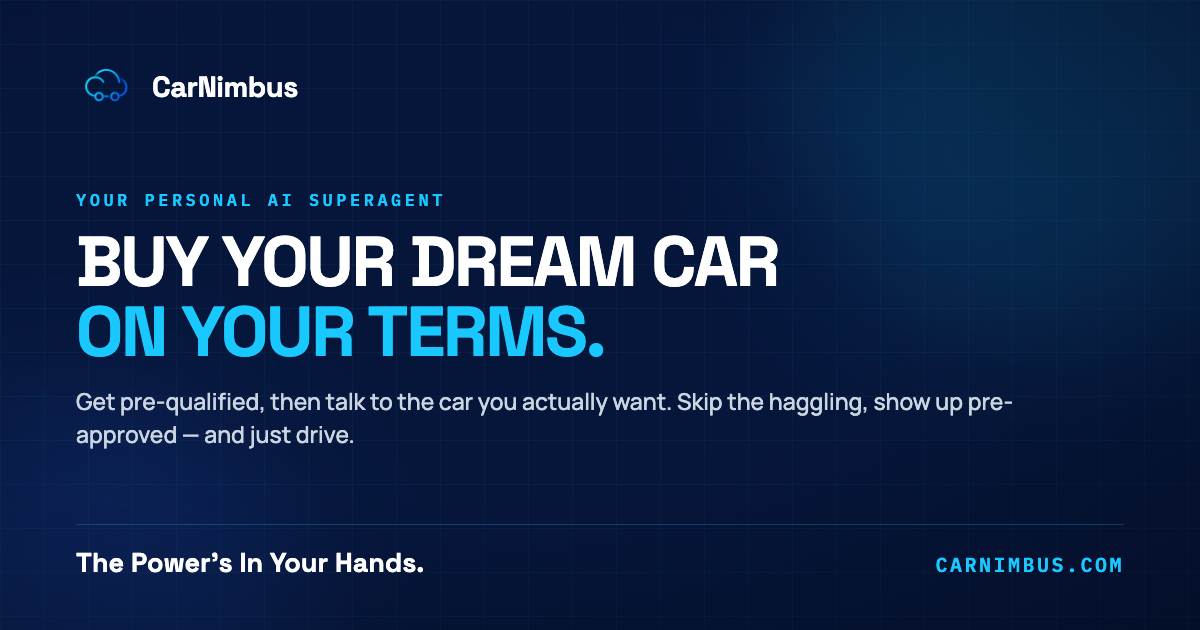
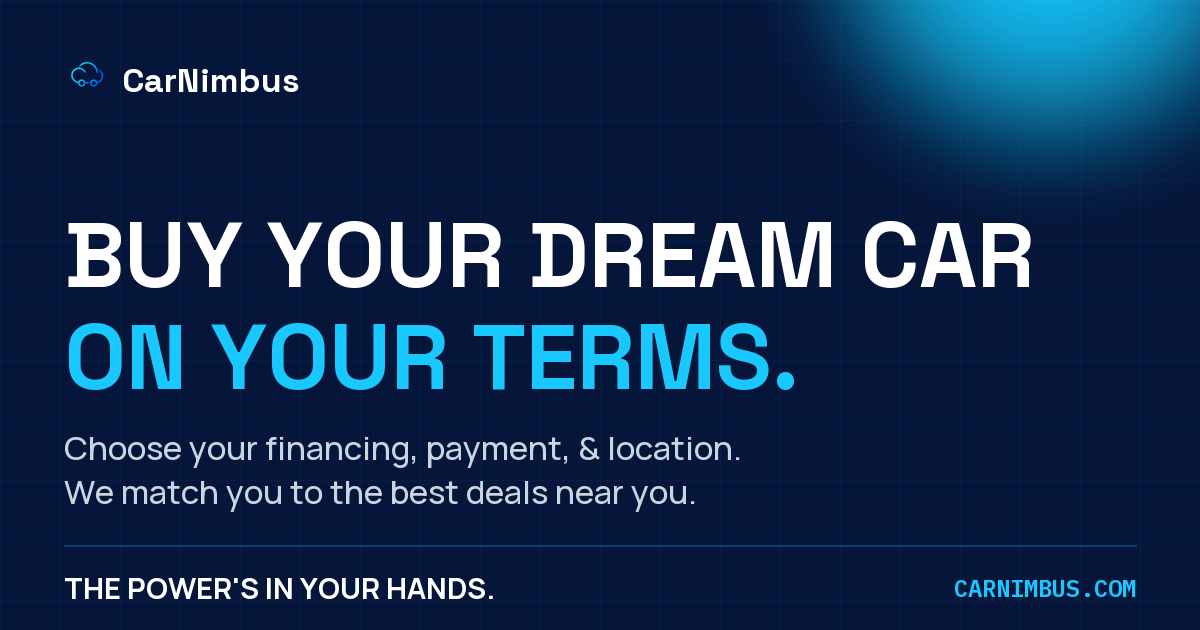
Wave Y: link-preview card matches the new site, step 5 = choose your matched car, email handoff to Cid
- New og-card.png (rendered from the site's own Space Grotesk/Manrope woff2 via fontTools+PIL):
  BUY YOUR DREAM CAR / ON YOUR TERMS + new subhead + THE POWER'S IN YOUR HANDS · CARNIMBUS.COM;
  og/twitter title+description updated, image cache-busted to ?v=10
- Step 5 is now CHOOSE YOUR CAR: Show My Matches -> /api/search (the real matching engine:
  affordability at anon APR, haversine ZIP/radius, graceful fallbacks) + new dream-car text boost
  (q param, matched cars float first) -> carousel with "YOUR TOP MATCH" badge; phone field removed
- Schedule Test Drive on a card: logs the lead (web_leads.matched_car, migration 0039 applied to
  remote pre-deploy; phone now optional) and opens a prefilled email to cidsanchez@lacarguy.com
  (test-drive request with car + terms — the CDK/calendar link drops into DEALER_EMAIL later)
- H1 bumped to clamp(32px,5.2vw,46px); footer tagline "The Power's In Your Hands."
- Full ES coverage for the page (H1, options, marquee, step labels, carousel strings); verifier
  caught a real duplicate-key i18n collision (Finance/Lease) — resolved pre-ship

Verifier verdict: SHIP (blocker fixed; 2 accepted nits documented in transcript).

diff --git a/site/assets/runtime.js b/site/assets/runtime.js
@@ -204,7 +204,7 @@
 "Static on the line — try that again.":"Se cortó la señal: inténtalo de nuevo.",
 "Your matches. Talk when you’re ready.":"Tus matches. Habla cuando estés listo.",
 "Sign in":"Iniciar sesión","I'm buying a car":"Quiero comprar un auto","I'm a dealer":"Soy concesionario","Request access":"Solicitar acceso","Welcome to CarNimbus.":"Bienvenido a CarNimbus.","Buyers and dealers both drive here.":"Aquí manejan compradores y concesionarios.","Talk to this car →":"Habla con este auto →","My Deals":"Mis tratos","Account":"Cuenta","matches":"resultados","No Drive Now pass yet.":"Aún no tienes pase Drive Now.","Browse your matches":"Explora tus matches","Open full pass":"Abrir pase completo","Reschedule in chat":"Reagendar en el chat","Pre-qualified":"Precalificado","0 FICO impact":"0 impacto en FICO"
-,"Choose your financing, payment, & location. We match you to the best deals near you.":"Elige tu financiamiento, pago y ubicación. Te conectamos con las mejores ofertas cerca de ti.","Schedule Test Drive":"Agendar prueba de manejo","STEP 1 · WHAT'S YOUR DREAM CAR?":"PASO 1 · ¿CUÁL ES EL AUTO DE TUS SUEÑOS?","STEP 2 · CASH, FINANCE, OR LEASE?":"PASO 2 · ¿EFECTIVO, FINANCIADO O LEASING?","STEP 3 · MONTHLY & DOWN PAYMENT":"PASO 3 · MENSUALIDAD Y ENGANCHE","STEP 4 · ZIP & RADIUS":"PASO 4 · CÓDIGO POSTAL Y RADIO","STEP 5 · SCHEDULE YOUR TEST DRIVE":"PASO 5 · AGENDA TU PRUEBA DE MANEJO","e.g. 2020 Toyota Tacoma":"p. ej. 2020 Toyota Tacoma","ZIP code":"Código postal","Radius (miles)":"Radio (millas)","Mobile number — a dealer texts you times":"Número de celular — un concesionario te envía horarios","The power's in your hands.":"El poder está en tus manos.","Following":"Siguiendo","For You":"Para ti","Browse all →":"Ver todo →","Talk to it":"Háblale","Post":"Publicar","Sign out":"Cerrar sesión","UPCOMING":"PRÓXIMO","YOUR MATCHES":"TUS MATCHES","Edit my 10 answers":"Editar mis 10 respuestas","Be the first — say something about a car you talked to.":"Sé el primero: comenta sobre un auto con el que hablaste.","Ask the community or an AI agent…":"Pregunta a la comunidad o a un agente de IA…","Sign in to see your account.":"Inicia sesión para ver tu cuenta.","Open pass":"Abrir pase","Reschedule":"Reagendar","Feed":"Comunidad","Hot":"Popular","New":"Nuevo",
+,"Choose your financing, payment, & location. We match you to the best deals near you.":"Elige tu financiamiento, pago y ubicación. Te conectamos con las mejores ofertas cerca de ti.","Buy your dream car":"Compra el auto de tus sueños","on your terms.":"a tu manera.","~$300 / mo":"~$300 / mes","~$500 / mo":"~$500 / mes","~$700 / mo":"~$700 / mes","$900+ / mo":"$900+ / mes","$0 down":"$0 de enganche","$500 down":"$500 de enganche","$1,000 down":"$1,000 de enganche","$2,000 down":"$2,000 de enganche","$3,000 down":"$3,000 de enganche","$5,000+ down":"$5,000+ de enganche","COMING SOON TO LA COUNTY":"MUY PRONTO EN EL CONDADO DE LA","STEP 5 · CHOOSE YOUR CAR":"PASO 5 · ELIGE TU AUTO","Show My Matches":"Ver mis matches","The Power's In Your Hands.":"El Poder Está En Tus Manos.","Schedule Test Drive":"Agendar prueba de manejo","STEP 1 · WHAT'S YOUR DREAM CAR?":"PASO 1 · ¿CUÁL ES EL AUTO DE TUS SUEÑOS?","STEP 2 · CASH, FINANCE, OR LEASE?":"PASO 2 · ¿EFECTIVO, FINANCIADO O LEASING?","STEP 3 · MONTHLY & DOWN PAYMENT":"PASO 3 · MENSUALIDAD Y ENGANCHE","STEP 4 · ZIP & RADIUS":"PASO 4 · CÓDIGO POSTAL Y RADIO","e.g. 2020 Toyota Tacoma":"p. ej. 2020 Toyota Tacoma","ZIP code":"Código postal","Radius (miles)":"Radio (millas)","Following":"Siguiendo","For You":"Para ti","Browse all →":"Ver todo →","Talk to it":"Háblale","Post":"Publicar","Sign out":"Cerrar sesión","UPCOMING":"PRÓXIMO","YOUR MATCHES":"TUS MATCHES","Edit my 10 answers":"Editar mis 10 respuestas","Be the first — say something about a car you talked to.":"Sé el primero: comenta sobre un auto con el que hablaste.","Ask the community or an AI agent…":"Pregunta a la comunidad o a un agente de IA…","Sign in to see your account.":"Inicia sesión para ver tu cuenta.","Open pass":"Abrir pase","Reschedule":"Reagendar","Feed":"Comunidad","Hot":"Popular","New":"Nuevo",
 "WHY IT FITS YOU":"POR QUÉ TE QUEDA","In budget":"En presupuesto","Top pick for your profile.":"La mejor opción para tu perfil.","Schedule your test drive":"Agenda tu prueba de manejo","PICK A DAY":"ELIGE UN DÍA","PICK A TIME":"ELIGE UNA HORA","Confirm test drive":"Confirmar prueba de manejo","↺ Start over":"↺ Empezar de nuevo","Message the car":"Escríbele al auto","Send":"Enviar","See your pass →":"Ver tu pase →","Drive booked · pass ready":"Manejo agendado · pase listo","Soft check · 0 credit hit":"Consulta suave · 0 impacto al crédito","Ask me anything — I answer straight.":"Pregúntame lo que sea — respondo directo.","Fresh listing":"Recién publicado","Ask me anything":"Pregúntame lo que sea","Today":"Hoy","Tomorrow":"Mañana","Sunday":"Domingo","Monday":"Lunes","Tuesday":"Martes","Wednesday":"Miércoles","Thursday":"Jueves","Friday":"Viernes","Saturday":"Sábado","Pick a time to lock it in.":"Elige una hora para confirmar.","Couldn't book that slot — try another.":"No se pudo reservar ese horario — elige otro.","Sign in first so I remember you.":"Inicia sesión primero para que te recuerde.","Sign in →":"Iniciar sesión →","Static on the line — try that again.":"Se cortó la señal — inténtalo de nuevo.","Car not found.":"Auto no encontrado.","Couldn't load this car — refresh to retry.":"No se pudo cargar este auto — recarga para reintentar.","Back to browse":"Volver a explorar","your nearest CarNimbus center":"tu centro CarNimbus más cercano",
 "Nimbus found your top matches.":"Nimbus encontró tus mejores opciones.","Ranked to your profile. Tap any car to talk to it — then pick the one you want to drive.":"Ordenados según tu perfil. Toca cualquier auto para hablar con él — luego elige el que quieras manejar.","Finish your profile to unlock ranked matches.":"Completa tu perfil para desbloquear tus opciones.","Answer a few questions →":"Responde unas preguntas →","Talk to this Car":"Habla con este auto","Certified":"Certificado","Top match":"Mejor opción","No matches yet — finish your profile to rank inventory.":"Aún no hay opciones — completa tu perfil para ordenar el inventario.","Matches unavailable — refresh to retry.":"Opciones no disponibles — recarga para reintentar.",
 "Talk":"Hablar","Your conversations. Every car here talks back.":"Tus conversaciones. Cada auto aquí te responde.","Tap to talk to this car":"Toca para hablar con este auto","Tap to keep talking":"Toca para seguir hablando","Finish your profile to meet your matches.":"Completa tu perfil para conocer tus opciones.","See matches →":"Ver opciones →","Couldn't load your matches — refresh to retry.":"No se pudieron cargar tus opciones — recarga para reintentar.",

diff --git a/site/assets/js/lead.js b/site/assets/js/lead.js
@@ -1,27 +1,49 @@
 document.addEventListener("DOMContentLoaded",function(){
   function $(id){return document.getElementById(id);}
+  function esc(s){return String(s==null?"":s).replace(/[<&>"]/g,function(c){return {"<":"&lt;","&":"&amp;",">":"&gt;","\"":"&quot;"}[c];});}
   function es(){try{return localStorage.cn_lang==="es";}catch(_){return false;}}
+  var DEALER_EMAIL="cidsanchez@lacarguy.com";   // Y2: swap for Cid's CDK/calendar link when credentials exist
   var dealButtons=document.querySelectorAll("#lead-deal button");
   dealButtons.forEach(function(btn){ btn.addEventListener("click",function(){
     dealButtons.forEach(function(b){ b.classList.remove("on"); b.classList.remove("primary"); b.classList.add("ghost"); });
     btn.classList.add("on"); btn.classList.remove("ghost"); btn.classList.add("primary"); }); });
+  function terms(){ var on=document.querySelector("#lead-deal button.on");
+    return { car:($("lead-car").value||"").trim(), deal:on?on.getAttribute("data-deal"):"finance",
+      mo:$("lead-monthly").value, dn:$("lead-down").value,
+      zip:($("lead-zip").value||"").replace(/\D/g,""), rad:($("lead-radius").value||"").replace(/\D/g,"")||"25" }; }
+  function mailtoFor(c,t){ var name=c.year+" "+c.make+" "+c.model;
+    var sub="Test drive request — "+name+" (via CarNimbus)";
+    var body="Hi Cid,\n\nI'm a local LA shopper and came across CarNimbus — I saw you have great deals that fit my budget. I'd like to test drive the "+name+(c.dealer_name?(" at "+c.dealer_name):"")+".\n\nMy terms: "+t.deal+", ~$"+t.mo+"/mo, $"+t.dn+" down, ZIP "+t.zip+" (±"+t.rad+" mi).\n\nWhat times in the upcoming week fit your schedule?\n\nThanks!";
+    return "mailto:"+DEALER_EMAIL+"?subject="+encodeURIComponent(sub)+"&body="+encodeURIComponent(body); }
+  var CARS=[];
   var f=$("lead-form"); if(!f) return;
   f.addEventListener("submit",async function(e){ e.preventDefault();
-    var msg=$("lead-msg"), go=$("lead-go");
-    var car=($("lead-car").value||"").trim(), zip=($("lead-zip").value||"").replace(/\D/g,"");
-    var rad=($("lead-radius").value||"").replace(/\D/g,""), ph=($("lead-phone").value||"").replace(/\D/g,"");
-    if(ph.length===11&&ph[0]==="1")ph=ph.slice(1);
-    var on=document.querySelector("#lead-deal button.on"), deal=on?on.getAttribute("data-deal"):"finance";
-    if(!car){ msg.textContent=es()?"Cuéntanos el auto de tus sueños.":"Tell us your dream car."; return; }
-    if(!/^\d{5}$/.test(zip)){ msg.textContent=es()?"Ingresa un código postal válido.":"Enter a valid 5-digit ZIP."; return; }
-    if(!/^[2-9]\d{9}$/.test(ph)){ msg.textContent=es()?"Ingresa un número de celular válido.":"Enter a valid mobile number so a dealer can text you."; return; }
-    go.disabled=true; go.textContent=es()?"Enviando…":"Sending…";
-    try{ var r=await fetch("/api/webleads",{method:"POST",headers:{"content-type":"application/json"},
-      body:JSON.stringify({dream_car:car,deal_type:deal,monthly:$("lead-monthly").value,down:$("lead-down").value,zip:zip,radius:rad||"25",phone:ph,website:$("lead-hp").value})});
-      var d=await r.json().catch(function(){return{};});
-      if(d&&d.ok){ f.innerHTML='<div style="font:700 16px Manrope;color:#5ee6a8;padding:18px 0">✓ '+(es()?"Solicitud enviada — un concesionario te enviará tus opciones de prueba de manejo por mensaje.":"Request sent — a dealer will text you your test-drive options.")+'</div>'; return; }
-    }catch(_){ }
-    go.disabled=false; go.textContent=es()?"Agendar prueba de manejo":"Schedule Test Drive";
-    msg.textContent=es()?"No se pudo enviar — inténtalo de nuevo.":"Couldn't send — try again.";
+    var msg=$("lead-msg"), go=$("lead-go"), t=terms();
+    if(!t.car){ msg.textContent=es()?"Cuéntanos el auto de tus sueños.":"Tell us your dream car."; return; }
+    if(!/^\d{5}$/.test(t.zip)){ msg.textContent=es()?"Ingresa un código postal válido.":"Enter a valid 5-digit ZIP."; return; }
+    go.disabled=true; go.textContent=es()?"Buscando…":"Matching…"; msg.textContent="";
+    try{ var r=await fetch("/api/search?monthly="+t.mo+"&down="+t.dn+"&zip="+t.zip+"&radius="+t.rad+"&deal_type="+t.deal+"&q="+encodeURIComponent(t.car));
+      var d=await r.json().catch(function(){return{};}); CARS=(d&&d.cars)||[];
+      go.disabled=false; go.textContent=es()?"Ver mis matches":"Show My Matches";
+      if(!CARS.length){ msg.textContent=es()?"No encontramos autos con esos términos — prueba un radio o presupuesto mayor.":"No matches with those terms — try a wider radius or higher monthly."; $("lead-cars").innerHTML=""; return; }
+      $("lead-cars").innerHTML=CARS.slice(0,12).map(function(c,i){
+        return '<div style="flex:none;width:190px;background:#0a1f4d;border:1px solid rgba(24,200,255,'+(i===0?'.55':'.2')+');border-radius:14px;overflow:hidden">'+
+          (i===0?'<div style="font:700 9px Manrope;letter-spacing:.08em;color:#06163b;background:#18C8FF;text-align:center;padding:3px 0">⭐ '+(es()?"TU MEJOR MATCH":"YOUR TOP MATCH")+'</div>':'')+
+          '<div style="height:100px;background:#06163b '+(c.photos&&c.photos[0]?"url(\'"+esc(c.photos[0])+"\') center/cover":"")+'"></div>'+
+          '<div style="padding:10px"><div style="font:700 12px Manrope;color:#fff">'+esc(c.year+" "+c.make+" "+c.model)+'</div>'+
+          '<div style="font:700 13px Manrope;color:#18C8FF;margin-top:3px">$'+esc(c.price_mo)+'/mo</div>'+
+          (c.dist?'<div style="font:600 9px Manrope;color:#8ca0c4;margin-top:2px">'+esc(c.dist)+' mi away</div>':'')+
+          '<button type="button" class="btn primary sm lead-book" data-i="'+i+'" style="width:100%;margin-top:8px">'+(es()?"Agendar prueba":"Schedule Test Drive")+'</button></div></div>';
+      }).join('');
+    }catch(_){ go.disabled=false; go.textContent=es()?"Ver mis matches":"Show My Matches";
+      msg.textContent=es()?"No se pudo buscar — inténtalo de nuevo.":"Couldn't search — try again."; }
+  });
+  document.addEventListener("click",function(e){ var b=e.target.closest(".lead-book"); if(!b)return;
+    var c=CARS[+b.dataset.i]; if(!c)return; var t=terms();
+    fetch("/api/webleads",{method:"POST",headers:{"content-type":"application/json"},
+      body:JSON.stringify({dream_car:t.car,deal_type:t.deal,monthly:t.mo,down:t.dn,zip:t.zip,radius:t.rad,
+        matched_car:c.year+" "+c.make+" "+c.model,website:$("lead-hp").value})}).catch(function(){});
+    location.href=mailtoFor(c,t);
+    $("lead-msg").textContent=es()?"✓ Correo redactado — envíalo y Cid te responderá con horarios.":"✓ Email drafted — hit send and Cid will get back to you with times.";
   });
 });

diff --git a/site/index.html b/site/index.html
@@ -10,17 +10,17 @@
 <link rel="manifest" href="/site.webmanifest">
 <meta name="theme-color" content="#06163b">
 <title>CarNimbus — The Power's In Your Hands</title>
-<meta name="description" content="Buy your dream car on your terms. Talk to the car you actually want, get pre-qualified with zero FICO impact, and just drive.">
+<meta name="description" content="Choose your financing, payment, & location. We match you to the best deals near you.">
 <meta property="og:type" content="website">
 <meta property="og:site_name" content="CarNimbus">
-<meta property="og:title" content="CarNimbus — The Power's In Your Hands">
-<meta property="og:description" content="Buy your dream car on your terms. Talk to the car you actually want, get pre-qualified with zero FICO impact, and just drive.">
-<meta property="og:image" content="https://carnimbus.com/assets/og-card.png?v=4">
+<meta property="og:title" content="CarNimbus — Buy Your Dream Car On Your Terms">
+<meta property="og:description" content="Choose your financing, payment, & location. We match you to the best deals near you.">
+<meta property="og:image" content="https://carnimbus.com/assets/og-card.png?v=10">
 <meta property="og:url" content="https://carnimbus.com/">
 <meta name="twitter:card" content="summary_large_image">
-<meta name="twitter:title" content="CarNimbus — The Power's In Your Hands">
-<meta name="twitter:description" content="Buy your dream car on your terms. Talk to the car you actually want, get pre-qualified with zero FICO impact, and just drive.">
-<meta name="twitter:image" content="https://carnimbus.com/assets/og-card.png?v=4">
+<meta name="twitter:title" content="CarNimbus — Buy Your Dream Car On Your Terms">
+<meta name="twitter:description" content="Choose your financing, payment, & location. We match you to the best deals near you.">
+<meta name="twitter:image" content="https://carnimbus.com/assets/og-card.png?v=10">
 <link rel="preload" href="/assets/fonts/space-grotesk.woff2" as="font" type="font/woff2" crossorigin>
 <link rel="preload" href="/assets/fonts/manrope.woff2" as="font" type="font/woff2" crossorigin>
 <link rel="stylesheet" href="/assets/fonts/fonts.css">
@@ -30,7 +30,7 @@
 <body>
 <noscript><div style="max-width:640px;margin:0 auto;padding:40px 24px;font-family:system-ui,sans-serif;color:#e2e9f2;background:#06163b;text-align:center">
 <h1 style="font-size:28px">CarNimbus — The Power's In Your Hands</h1>
-<p>Buy your dream car on your terms: get pre-qualified with zero FICO impact, talk to the car you actually want, and just drive.</p>
+<p>Buy your dream car on your terms — choose your financing, payment, & location, and we match you to the best deals near you.</p>
 <p>This experience needs JavaScript. To reach us now, email <a style="color:#18C8FF" href="mailto:hello@carnimbus.com">hello@carnimbus.com</a>.</p>
 </div></noscript>
 
@@ -50,7 +50,7 @@
 
       <!-- Wave X (Sid): the whole site is one 5-step lead form. v9 archived at archive/site-v9-index-surf-widget.html + tag site-v9-surf-widget -->
       <div class="z" style="max-width:560px;margin:0 auto;padding:36px 24px 46px">
-        <h1 class="hero-h1" style="font-size:clamp(28px,4.4vw,40px);line-height:1.08">Buy your dream car <span class="cy">on your terms.</span></h1>
+        <h1 class="hero-h1" style="font-size:clamp(32px,5.2vw,46px);line-height:1.08">Buy your dream car <span class="cy">on your terms.</span></h1>
         <div style="font:500 15px/1.5 Manrope;color:#cbd5e1;margin:12px 0 26px">Choose your financing, payment, &amp; location. We match you to the best deals near you.</div>
         <form id="lead-form" class="col" style="gap:18px">
           <div><div class="mono" style="font-size:10px;color:#8ca0c4;letter-spacing:.14em;margin-bottom:6px">STEP 1 · WHAT'S YOUR DREAM CAR?</div>
@@ -71,11 +71,11 @@
               <input id="lead-zip" class="pill" inputmode="numeric" maxlength="5" placeholder="ZIP code" style="flex:1;height:44px;font-size:13px;border-radius:12px">
               <input id="lead-radius" class="pill" inputmode="numeric" maxlength="3" placeholder="Radius (miles)" style="flex:1;height:44px;font-size:13px;border-radius:12px">
             </div></div>
-          <div><div class="mono" style="font-size:10px;color:#8ca0c4;letter-spacing:.14em;margin-bottom:6px">STEP 5 · SCHEDULE YOUR TEST DRIVE</div>
-            <input id="lead-phone" type="tel" inputmode="tel" autocomplete="tel" placeholder="Mobile number — a dealer texts you times" style="width:100%;height:44px;font-size:13px;border-radius:12px" class="pill">
+          <div><div class="mono" style="font-size:10px;color:#8ca0c4;letter-spacing:.14em;margin-bottom:6px">STEP 5 · CHOOSE YOUR CAR</div>
             <input type="text" name="website" tabindex="-1" autocomplete="off" class="vh" aria-hidden="true" id="lead-hp">
-            <button id="lead-go" class="btn primary md" type="submit" style="width:100%;margin-top:10px;height:46px">Schedule Test Drive</button>
-            <div id="lead-msg" style="font:600 12px Manrope;color:#8ca0c4;margin-top:8px;min-height:16px"></div></div>
+            <button id="lead-go" class="btn primary md" type="submit" style="width:100%;height:46px">Show My Matches</button>
+            <div id="lead-msg" style="font:600 12px Manrope;color:#8ca0c4;margin-top:8px;min-height:16px"></div>
+            <div id="lead-cars" style="display:flex;gap:12px;overflow-x:auto;padding:6px 0;margin-top:6px"></div></div>
         </form>
       </div>
       <!-- trust band -->
@@ -87,7 +87,7 @@
       <footer class="z row" style="padding:24px 30px;gap:30px;align-items:center;border-top:1px solid rgba(24,200,255,.12);background:rgba(6,16,40,.6)">
         <div style="flex:1">
           <x-import component-from-global-scope="CarNimbusDesignSystem_303dd7.Wordmark" variant="solid" size="15" mark="true" mark-src="{{ logoUrl }}" hint-size="130px,26px"></x-import>
-          <div style="font:600 11px Manrope;color:#18C8FF;margin-top:8px">The power's in your hands.</div>
+          <div style="font:600 11px Manrope;color:#18C8FF;margin-top:8px">The Power's In Your Hands.</div>
           <div style="font:500 11px Manrope;color:#7f93b8;margin-top:4px">© 2026 CarNimbus, Inc. · Los Angeles, California</div>
         </div>
       </footer>

diff --git a/worker.js b/worker.js
@@ -883,6 +883,7 @@ async function search(request,env){ try{
   if(monthly<=0 || !/^\d{5}$/.test(zip)) return json({ok:true,count:0,cars:[],reason:"need_inputs"});   // P1: no valid budget/ZIP → no cars
   const apr=aprFor("670-739");                       // neutral default band for anon (no FICO on file)
   const radius=parseFloat(u.searchParams.get("radius"))||0;   // T4: 0/"" = any distance
+  const q=String(u.searchParams.get("q")||"").toLowerCase().slice(0,80);   // Y3: dream-car text
   const cen=await zipCentroids(env), home=cen[zip]||null;     // buyer ZIP centroid (null if outside our SoCal table)
   // Join vdp_specs for dealer coords (T3); fall back to vdps.location_zip → centroid.
   const all=await env.DB.prepare("SELECT v.*, s.dealer_lat, s.dealer_lng, s.dealer_zip FROM vdps v LEFT JOIN vdp_specs s ON s.vin=v.vin WHERE v.active=1 ORDER BY v.updated_at DESC LIMIT 200").all().catch(()=>({results:[]}));
@@ -904,6 +905,10 @@ async function search(request,env){ try{
   if(!out.length){ out=scan(0,radius);                   // B1 pass 3: keep radius, drop budget (cheapest-first)
     if(out.length) reason="over_budget"; }
   out.sort((a,b)=> reason==="widen_radius" ? (a._d||1e9)-(b._d||1e9) : (a.price_mo||0)-(b.price_mo||0));
+  // Y3: dream-car text boost — cars matching the typed dream car float to the front (stable within groups).
+  if(q){ const toks=q.split(/[^a-z0-9]+/).filter(t=>t.length>=3);
+    if(toks.length){ const hit=c=>{ const s=(c.year+" "+c.make+" "+c.model).toLowerCase(); return toks.some(t=>s.includes(t)); };
+      out=[...out.filter(hit),...out.filter(c=>!hit(c))]; } }
   const anon=readAnon(request);
   await logEvent(env,{anon_id:anon,action:"intent.opened_calculator",source:"calculator",location:zip||null});
   await logEvent(env,{anon_id:anon,action:"intent.search_results",source:"calculator",location:zip||null,confidence:out.length});  // B2 telemetry
@@ -1715,15 +1720,16 @@ async function webLead(request,env){ const b=await request.json().catch(()=>({})
   const deal=["cash","finance","lease"].includes(b.deal_type)?b.deal_type:"finance";
   const zip=String(b.zip||"").replace(/\D/g,"").slice(0,5);
   let ph=String(b.phone||"").replace(/\D/g,""); if(ph.length===11&&ph[0]==="1")ph=ph.slice(1);
-  if(!car||!/^\d{5}$/.test(zip)||!/^[2-9]\d{9}$/.test(ph)) return json({ok:false,error:"bad_request"},400);
+  if(!car||!/^\d{5}$/.test(zip)||(ph&&!/^[2-9]\d{9}$/.test(ph))) return json({ok:false,error:"bad_request"},400);   // Y4: phone optional — email is the contact channel now
+  const mc=String(b.matched_car||"").trim().slice(0,120);
   const ip=request.headers.get("CF-Connecting-IP")||"";
   const since=new Date(Date.now()-3600e3).toISOString();
   const rc=await env.DB.prepare("SELECT COUNT(*) c FROM web_leads WHERE ip=? AND created_at>?").bind(ip,since).first().catch(()=>({c:0}));
   if(rc&&rc.c>=5){ await logEvent(env,{action:"intent.web_lead_ratelimited",location:zip,source:"sid-form"}); return json({ok:true}); }   // per-IP cap: silent to the client, visible internally
   const mo=String(b.monthly||"").replace(/\D/g,"").slice(0,6), dn=String(b.down||"").replace(/\D/g,"").slice(0,6), rad=String(b.radius||"").replace(/\D/g,"").slice(0,3)||"25";
-  await env.DB.prepare("INSERT INTO web_leads (dream_car,deal_type,monthly,down,zip,radius,phone,ip,created_at) VALUES (?,?,?,?,?,?,?,?,?)")
-    .bind(car,deal,mo,dn,zip,rad,"+1"+ph,ip,new Date().toISOString()).run();
-  if(env.ADMIN_PHONE) await sendSMS(env,env.ADMIN_PHONE,`CarNimbus web lead: ${car} · ${deal} · $${mo}/mo · $${dn} down · ${zip} ±${rad}mi · +1${ph}`).catch(()=>{});
+  await env.DB.prepare("INSERT INTO web_leads (dream_car,deal_type,monthly,down,zip,radius,phone,ip,matched_car,created_at) VALUES (?,?,?,?,?,?,?,?,?,?)")
+    .bind(car,deal,mo,dn,zip,rad,ph?("+1"+ph):"",ip,mc,new Date().toISOString()).run();
+  if(env.ADMIN_PHONE) await sendSMS(env,env.ADMIN_PHONE,`CarNimbus web lead: ${car}${mc?` → matched ${mc}`:``} · ${deal} · $${mo}/mo · $${dn} down · ${zip} ±${rad}mi${ph?` · +1${ph}`:``} (emailing Cid)`).catch(()=>{});
   await logEvent(env,{action:"intent.web_lead",location:zip,source:"sid-form"});
   return json({ok:true}); }
 async function dealerLead(request,env){
